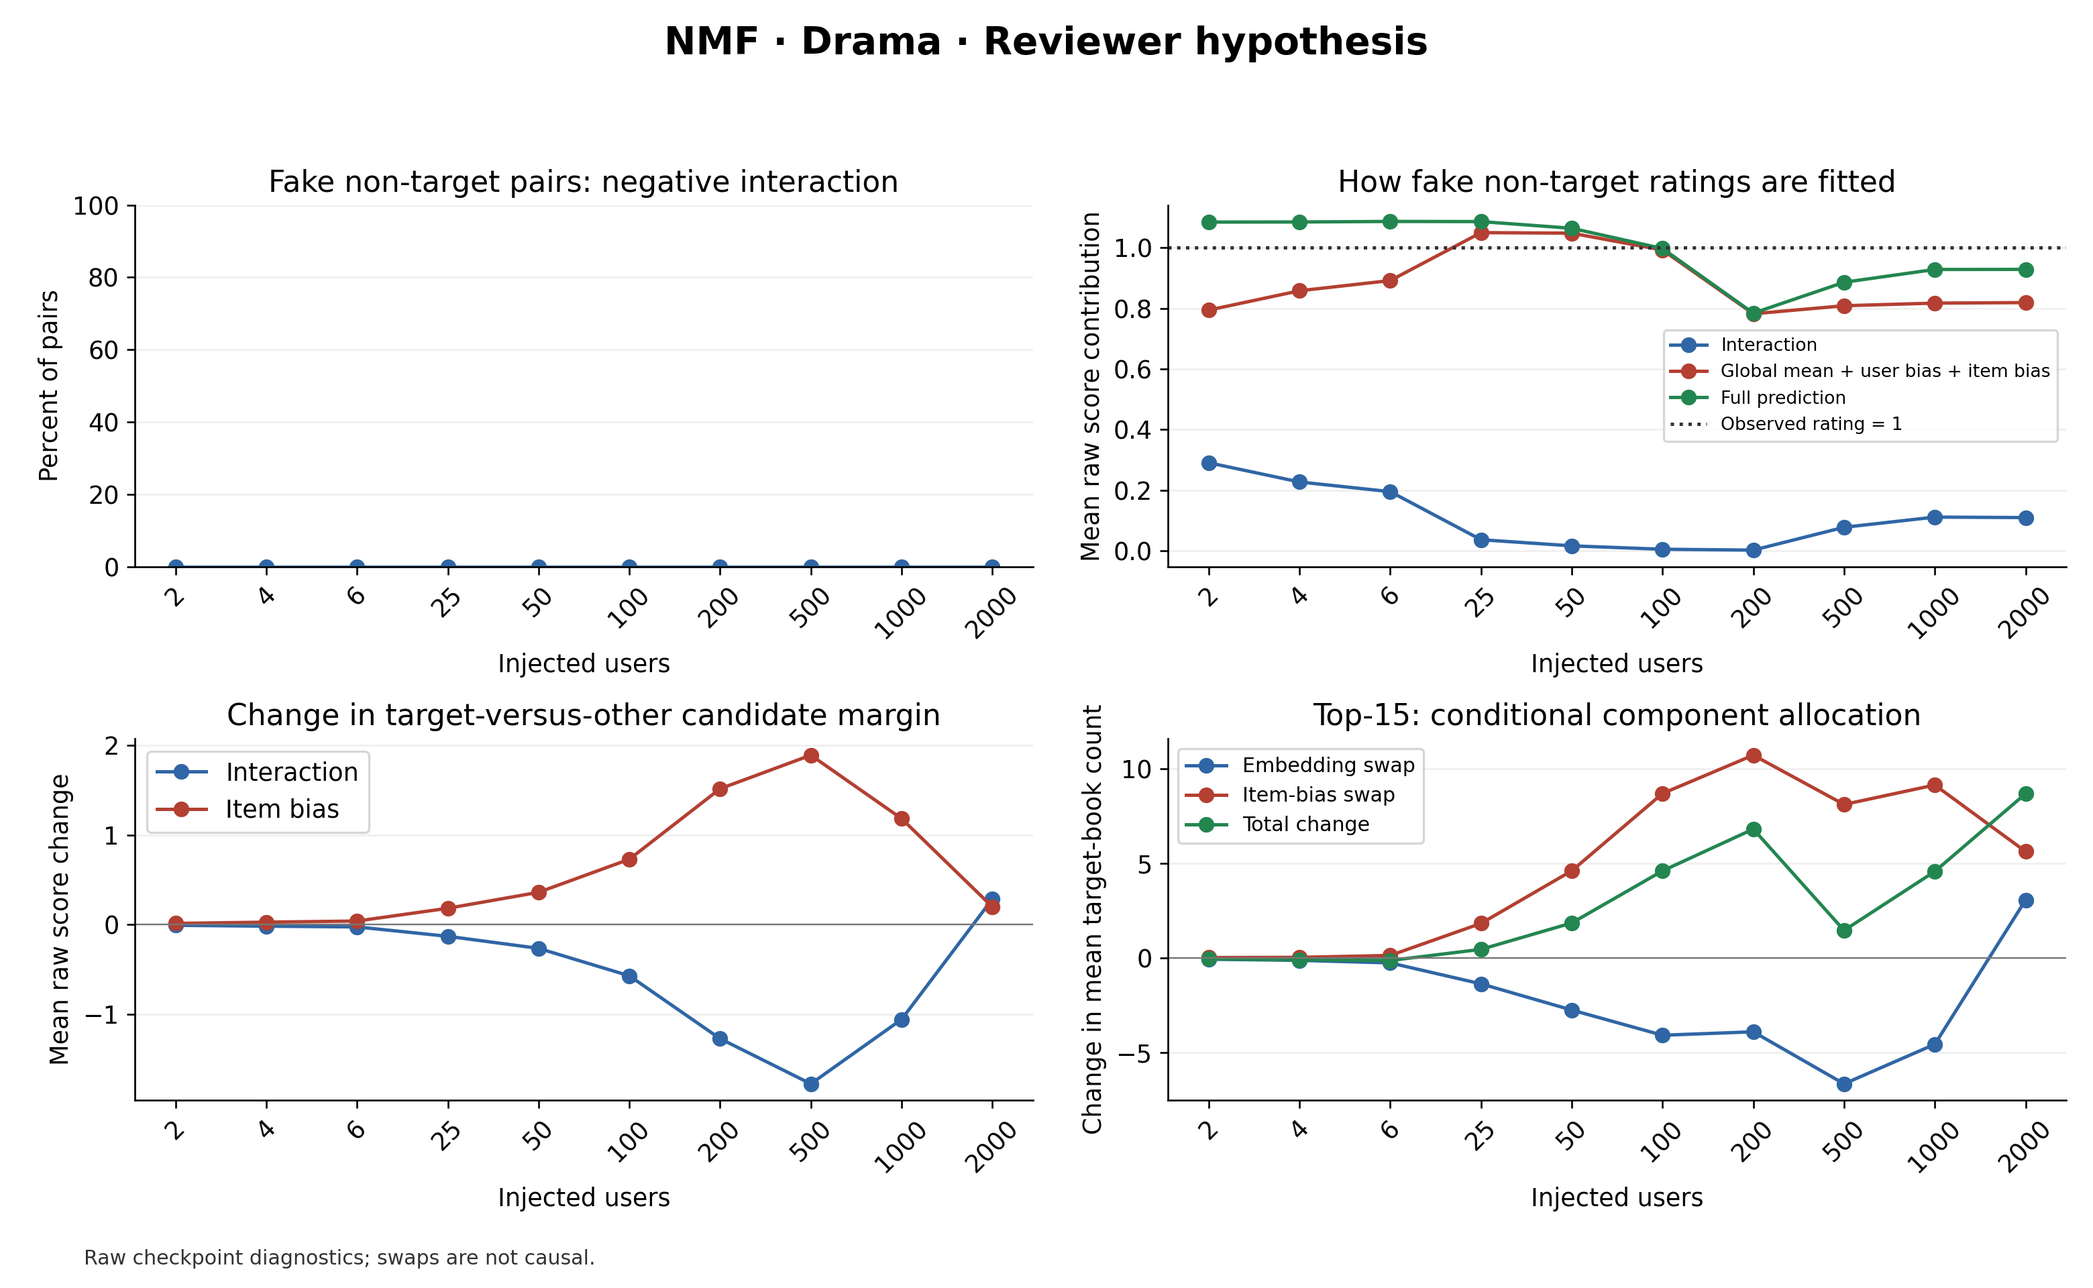
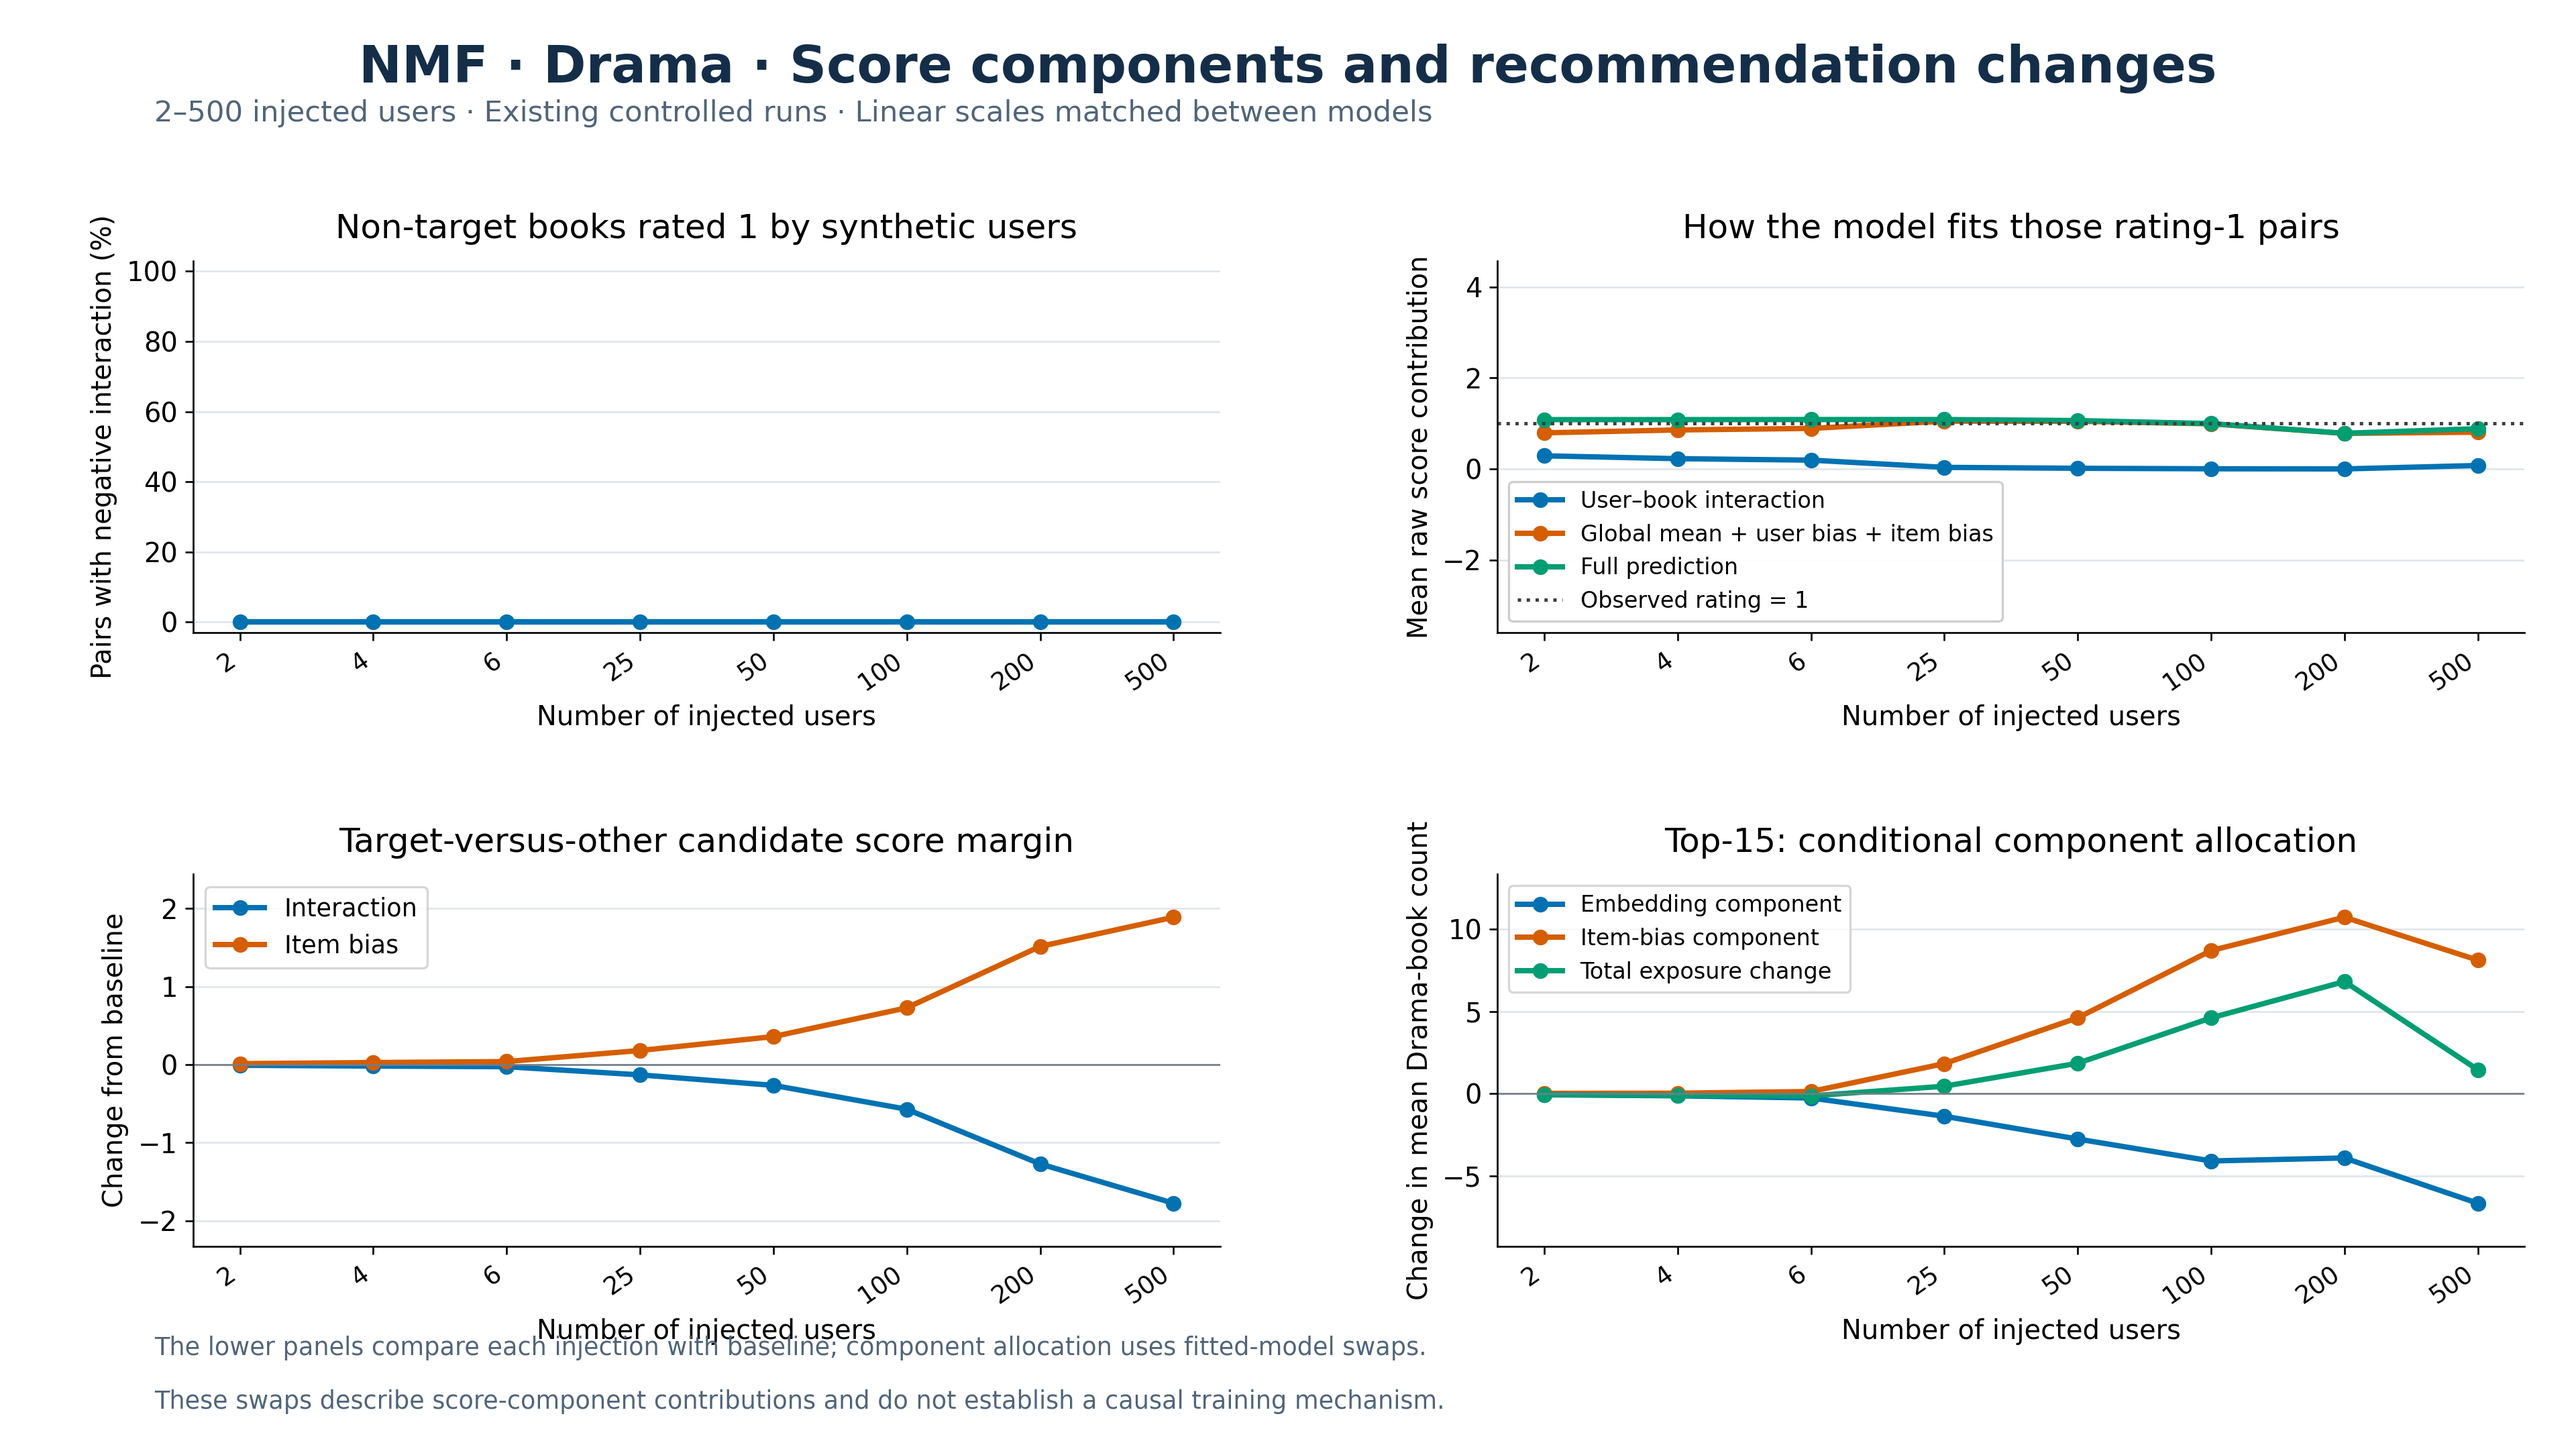
Render both Drama component panels through 500 users

diff --git a/Book/current/PerturbRec/svd_nmf/layer1/notebook/build_hypothesis_panels_up_to_500.py b/Book/current/PerturbRec/svd_nmf/layer1/notebook/build_hypothesis_panels_up_to_500.py
@@ -1,0 +1,57 @@
+#!/usr/bin/env python3
+"""Render Drama score-component panels for both models, using existing tables."""
+from pathlib import Path
+import numpy as np,pandas as pd
+import matplotlib
+matplotlib.use('Agg')
+import matplotlib.pyplot as plt
+ROOT=Path('/home/moshtasa/Research/phd-recsys/Book/current/PerturbRec/svd_nmf/layer1')
+SRC=ROOT/'result/reviewer_hypothesis';OUT=ROOT/'result/final_results'
+COUNTS=[2,4,6,25,50,100,200,500]
+COLORS={'interaction':'#0072B2','bias':'#D55E00','prediction':'#009E73'}
+plt.rcParams.update({'font.family':'DejaVu Sans','font.size':12,'axes.spines.top':False,'axes.spines.right':False})
+
+def main():
+ data={}
+ for model in ('NMF','SVD'):
+  p=SRC/model/'Drama'
+  fake=pd.read_csv(p/'synthetic_score_components.csv');fake=fake[(fake.pair_group=='non_target')&fake.n_fake.isin(COUNTS)].sort_values('n_fake')
+  margin=pd.read_csv(p/'candidate_margins.csv');margin=margin[margin.n_fake.isin(COUNTS)].sort_values('n_fake')
+  rec=pd.read_csv(p/'recommendation_component_swaps.csv');rec=rec[(rec.k==15)&rec.n_fake.isin(COUNTS)].sort_values('n_fake')
+  assert all(d.n_fake.tolist()==COUNTS for d in (fake,margin,rec))
+  data[model]=(fake,margin,rec)
+ def limits(columns,part,include=()):
+  v=np.concatenate([data[m][part][columns].to_numpy().ravel() for m in data]+[np.array(include,dtype=float)])
+  lo,hi=float(v.min()),float(v.max());pad=max(.15*(hi-lo),.1);return lo-pad,hi+pad
+ scorelim=limits(['mean_interaction','mean_offset','mean_prediction'],0,include=[1])
+ marginlim=limits(['delta_interaction_margin','delta_bi_margin'],1,include=[0])
+ reclim=limits(['embedding_swap_allocation','item_bias_swap_allocation','delta_count'],2,include=[0])
+ x=np.arange(len(COUNTS));OUT.mkdir(parents=True,exist_ok=True)
+ for model,(fake,margin,rec) in data.items():
+  fig,axes=plt.subplots(2,2,figsize=(16,9))
+  ax=axes[0,0];ax.plot(x,fake.negative_interaction_percent,'o-',color=COLORS['interaction'],lw=2.5)
+  ax.set_title('Non-target books rated 1 by synthetic users',fontsize=15,pad=10)
+  ax.set_ylabel('Pairs with negative interaction (%)');ax.set_ylim(-3,103)
+  ax=axes[0,1]
+  for col,label,color in [('mean_interaction','User–book interaction',COLORS['interaction']),('mean_offset','Global mean + user bias + item bias',COLORS['bias']),('mean_prediction','Full prediction',COLORS['prediction'])]:ax.plot(x,fake[col],'o-',lw=2.4,label=label,color=color)
+  ax.axhline(1,color='#404040',ls=':',lw=1.5,label='Observed rating = 1')
+  ax.set_title('How the model fits those rating-1 pairs',fontsize=15,pad=10);ax.set_ylabel('Mean raw score contribution');ax.set_ylim(*scorelim);ax.legend(fontsize=10,loc='lower left',framealpha=.95)
+  ax=axes[1,0]
+  for col,label,color in [('delta_interaction_margin','Interaction',COLORS['interaction']),('delta_bi_margin','Item bias',COLORS['bias'])]:ax.plot(x,margin[col],'o-',lw=2.4,label=label,color=color)
+  ax.axhline(0,color='#737D87',lw=.8);ax.set_title('Target-versus-other candidate score margin',fontsize=15,pad=10)
+  ax.set_ylabel('Change from baseline');ax.set_ylim(*marginlim);ax.legend(fontsize=11)
+  ax=axes[1,1]
+  for col,label,color in [('embedding_swap_allocation','Embedding component',COLORS['interaction']),('item_bias_swap_allocation','Item-bias component',COLORS['bias']),('delta_count','Total exposure change',COLORS['prediction'])]:ax.plot(x,rec[col],'o-',lw=2.4,label=label,color=color)
+  ax.axhline(0,color='#737D87',lw=.8);ax.set_title('Top-15: conditional component allocation',fontsize=15,pad=10)
+  ax.set_ylabel('Change in mean Drama-book count');ax.set_ylim(*reclim);ax.legend(fontsize=10,loc='upper left')
+  for ax in axes.flat:
+   ax.set_xticks(x,[str(n) for n in COUNTS],rotation=35,ha='right',fontsize=11)
+   ax.set_xlabel('Number of injected users',fontsize=12)
+   ax.grid(axis='y',color='#E0E5EA',lw=.8);ax.set_axisbelow(True)
+  fig.suptitle(f'{model} · Drama · Score components and recommendation changes',fontsize=23,weight='bold',color='#142E49',y=.97)
+  fig.text(.06,.916,'2–500 injected users · Existing controlled runs · Linear scales matched between models',fontsize=13,color='#50657A')
+  fig.subplots_adjust(left=.075,right=.98,bottom=.14,top=.82,hspace=.65,wspace=.27)
+  fig.text(.06,.065,'The lower panels compare each injection with baseline; component allocation uses fitted-model swaps.',fontsize=11,color='#50657A')
+  fig.text(.06,.028,'These swaps describe score-component contributions and do not establish a causal training mechanism.',fontsize=11,color='#50657A')
+  path=OUT/f'{model}_Drama_reviewer_hypothesis_4panel.png';fig.savefig(path,dpi=240,facecolor='white');plt.close(fig);print('SAVED',path,flush=True)
+if __name__=='__main__':main()
